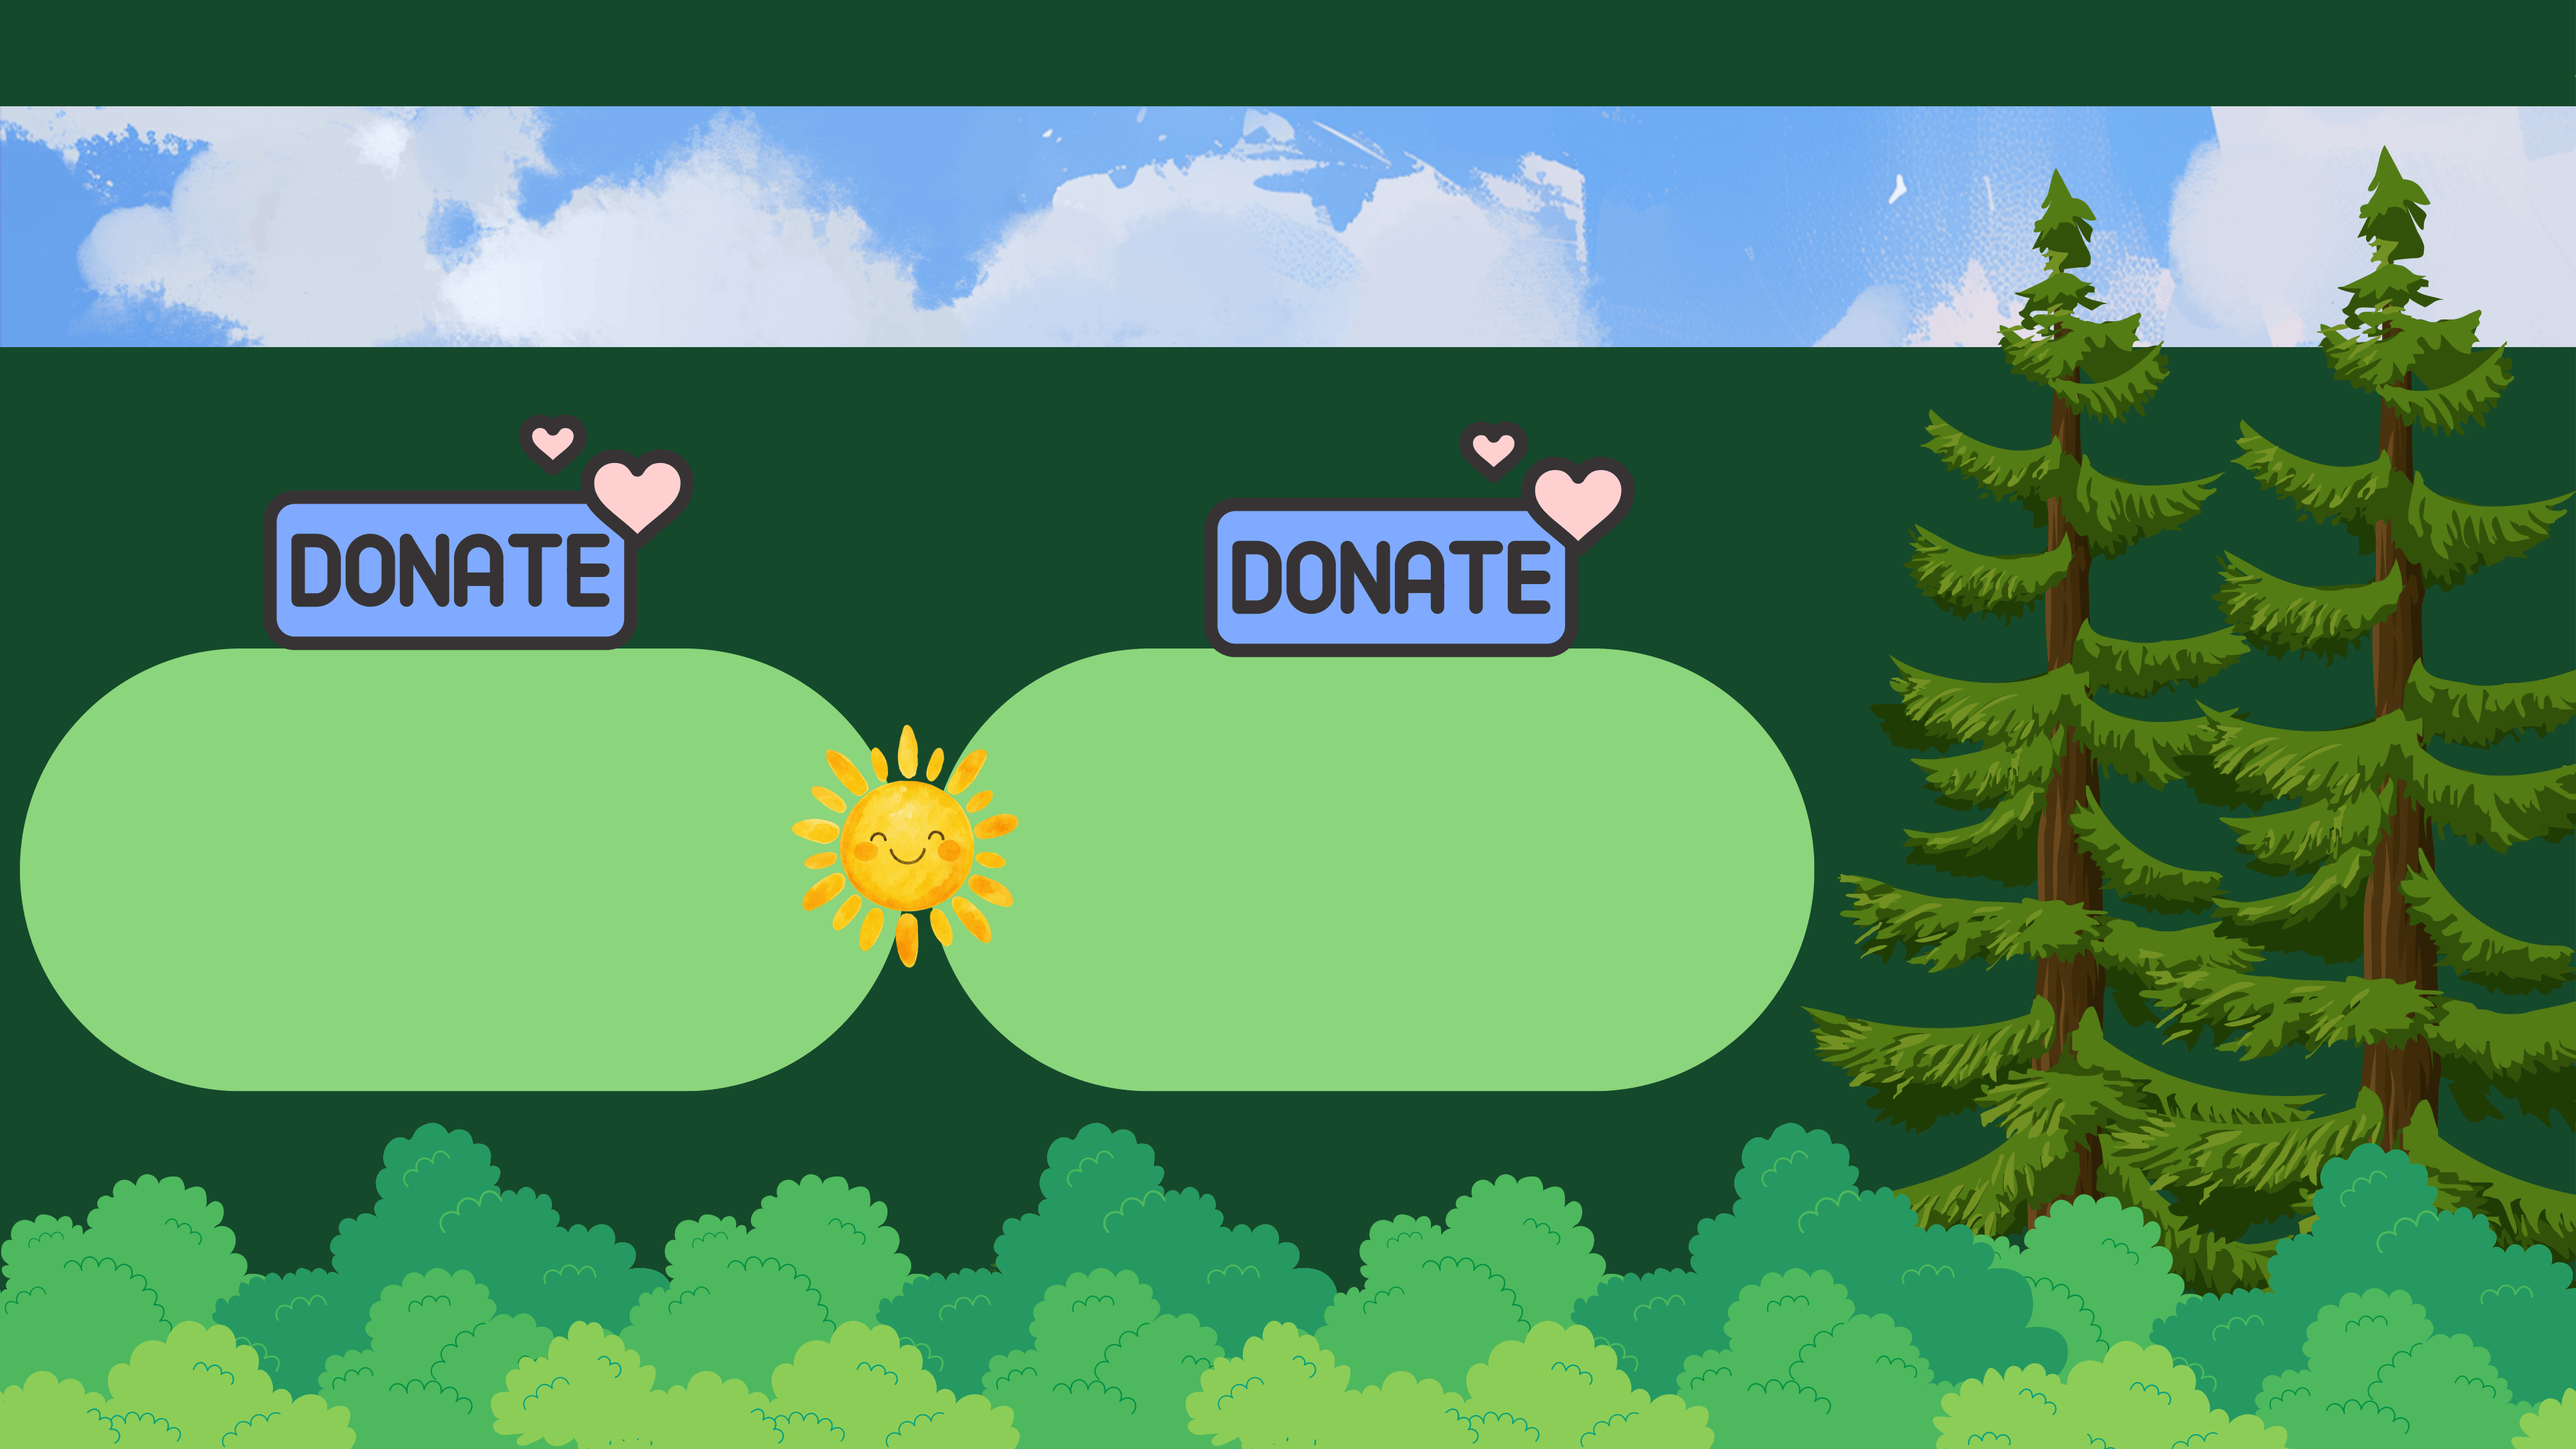
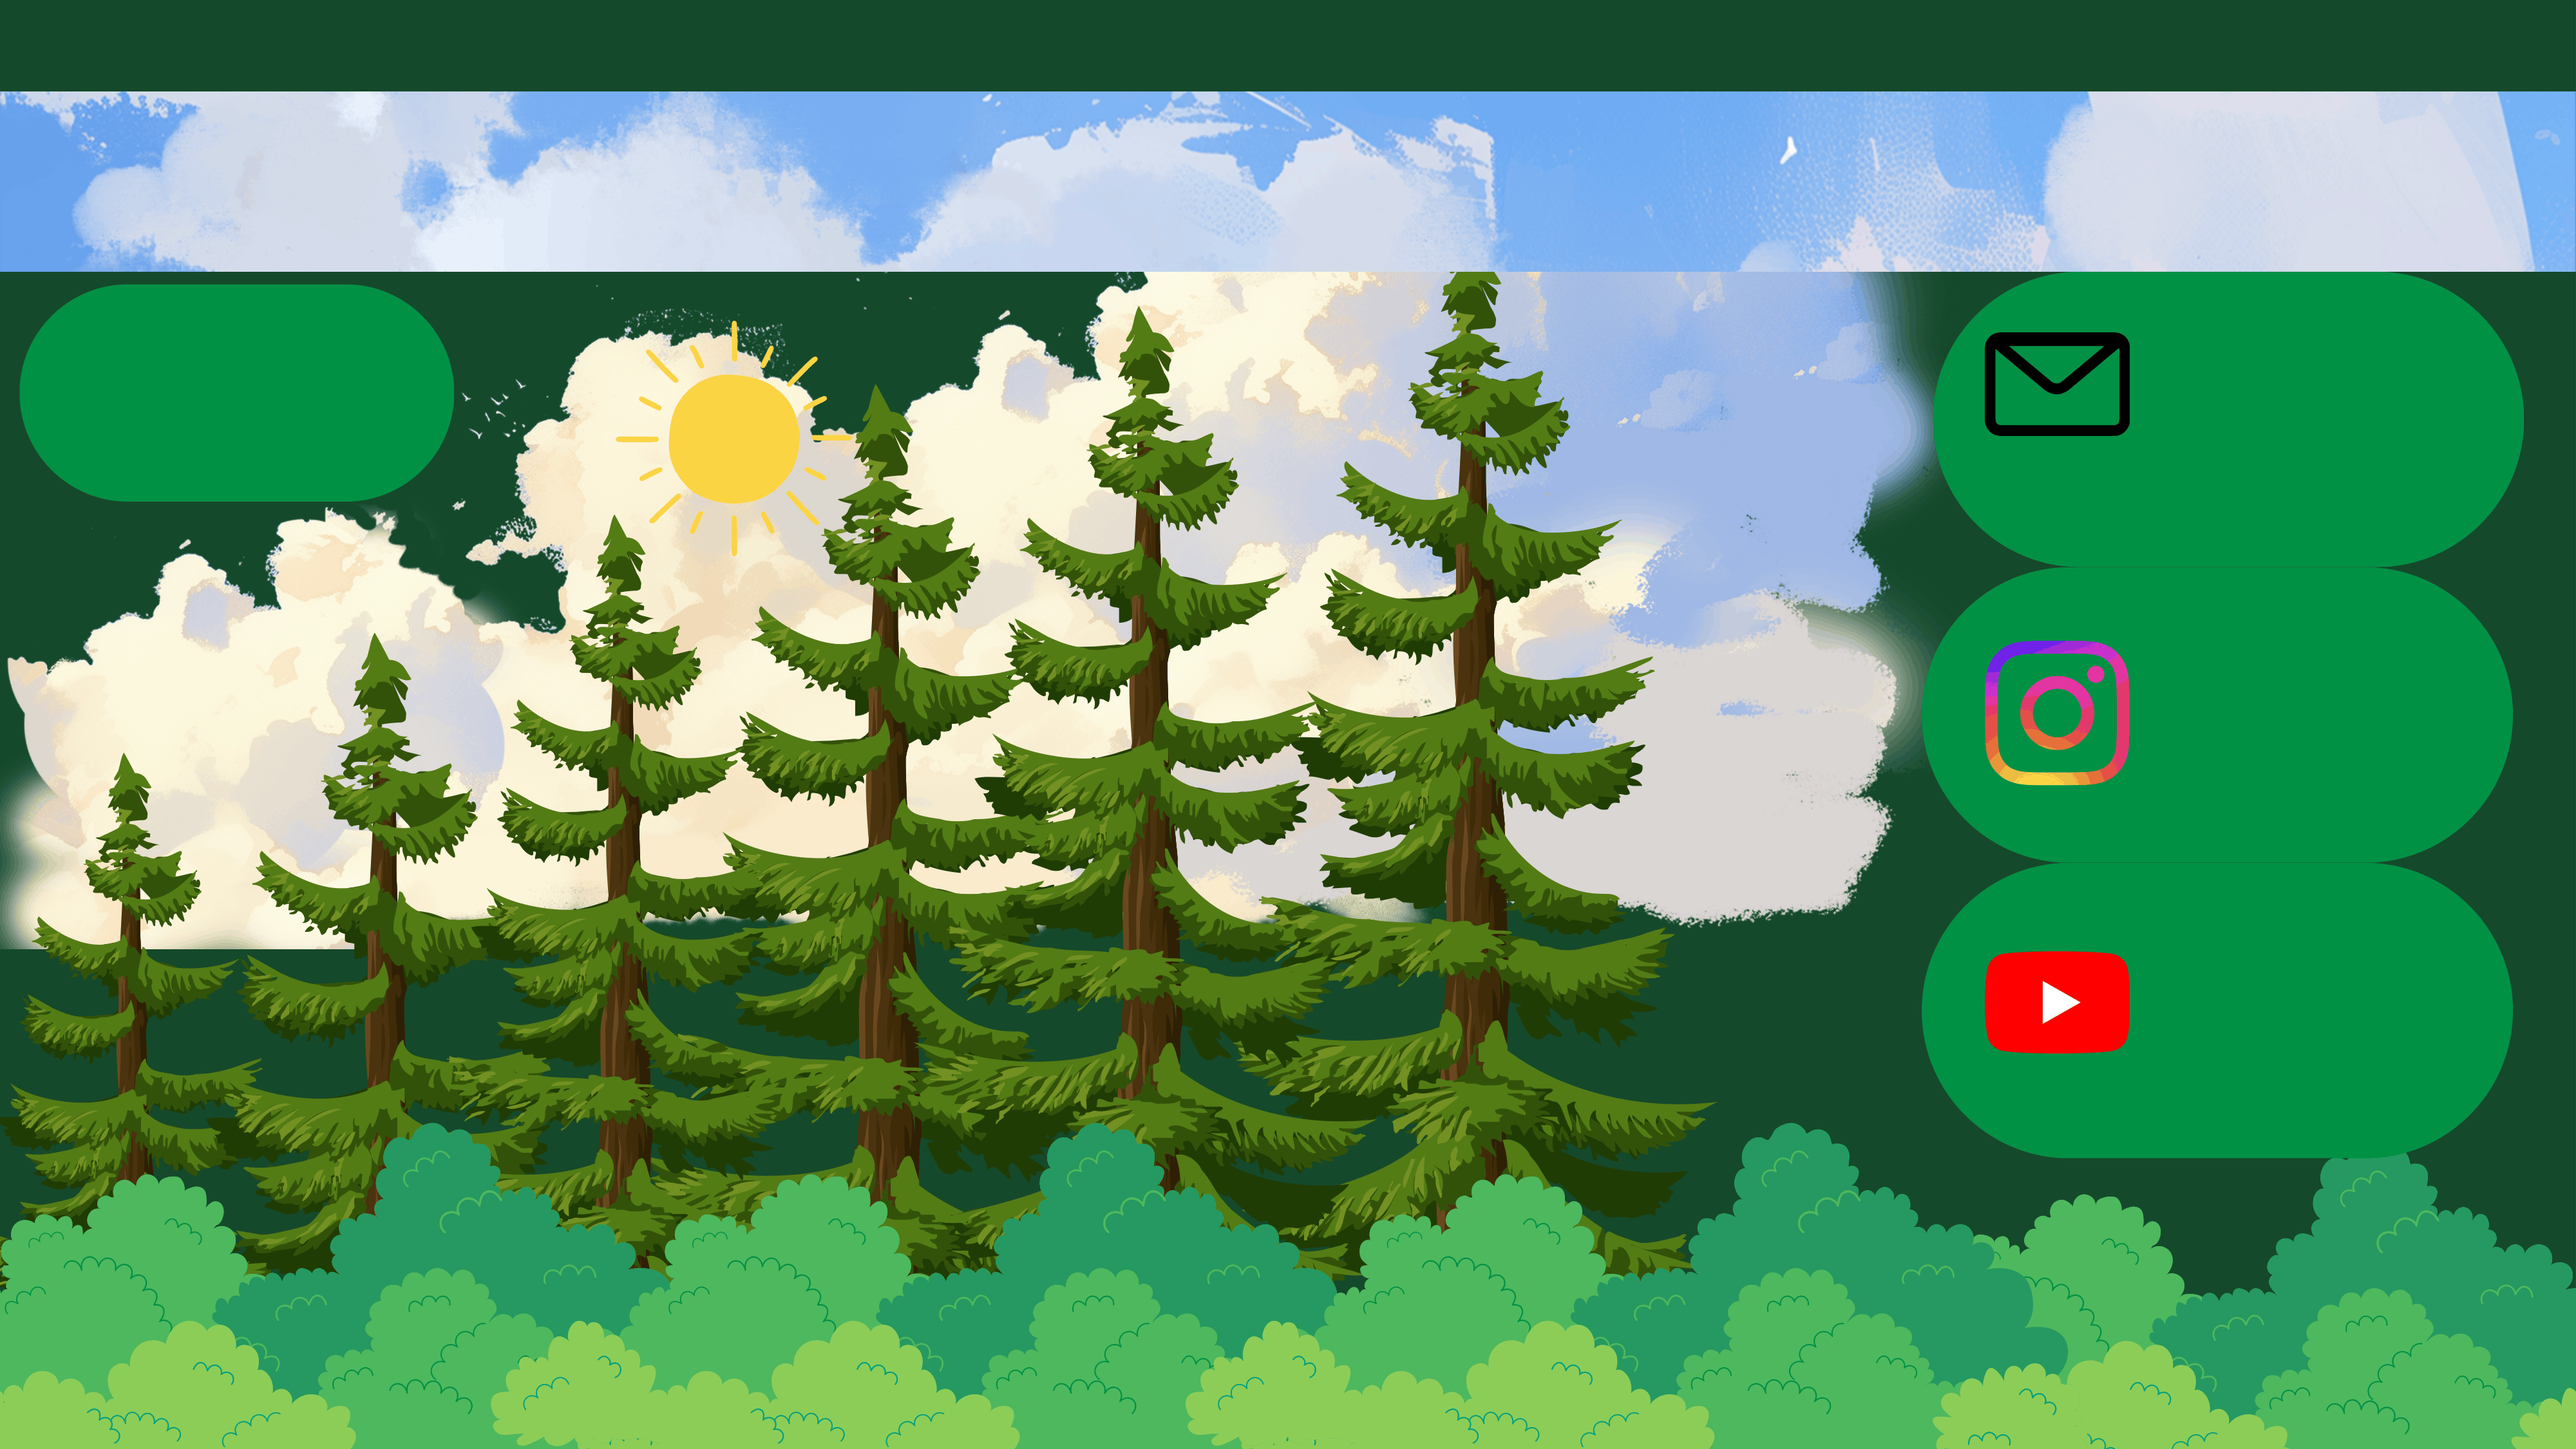
finished half of contact page

diff --git a/contact.css b/contact.css
@@ -1,0 +1,128 @@
+ul li a {
+   float: left;
+}
+
+ul li a {
+  display: block;
+  color: white;
+  text-align: center;
+  padding: 20px 20px;
+  text-decoration: none;
+}
+
+
+ul li a:hover:not(.active) {
+  background-color: #32CD32;
+}
+
+ul {
+  list-style-type: none;
+  margin: 0;
+  padding: 0;
+  background-color: #89CFF0;
+  display: flex;
+  justify-content: center;
+}
+
+ul li {
+  float: left;
+  border-right: 1px solid black;}
+
+ul li:last-child {
+  border-right: none;
+}
+ul li a:hover {
+  background-color: #50C878;
+}
+
+body {
+background-image: url("images/Contact.png");
+background-size: 100% 100%;
+background-repeat:no-repeat;
+background-attachment: fixed;
+}
+
+.Contact{
+  position: absolute;
+  top: 69%;
+  left: 89%;
+  transform: translate(-50%, -50%);
+  font-size:25px;
+}
+
+
+
+
+.Contact a:active {
+  color: red;
+  background-color: transparent;
+  text-decoration: underline;
+}
+
+
+
+
+.Contact1{
+  position: absolute;
+  top: 26%;
+  left: 90.4%;
+  transform: translate(-50%, -50%);
+  font-size:21px;
+}
+
+
+
+.contact1 a:active {
+  color: red;
+  background-color: transparent;
+  text-decoration: underline;
+}
+
+
+
+
+
+
+
+
+
+
+
+
+
+
+
+
+
+
+
+
+
+
+
+
+
+
+
+
+
+
+
+
+
+
+
+
+
+
+
+
+
+
+
+
+
+
+
+
+

diff --git a/contact.html b/contact.html
@@ -2,7 +2,7 @@
 <html lang="en">
 <head>
     <meta charset="UTF-8">
-    <link rel="stylesheet" href="information.css">
+    <link rel="stylesheet" href="contact.css">
    <meta name="viewport" content="width=device-width, initial-scale=1.0">
     <title>Information about deforestation in New Zealand</title>
 </head>
@@ -19,6 +19,21 @@
  <li><a href="index.html">Home Page</a></li>
     <li></li>
 </ul>
+
+
+
+
+
+
+<div class="Contact">
+<p><a href="https://www.youtube.com/@EnviroScience/">My youtube Channel</a></p>
+</div>
+
+
+
+
+<div class="Contact1">
+    <p>Email me at:(24002@students.mrgs.school.nz)<p>
 
 
 

diff --git a/donation.css b/donation.css
@@ -36,7 +36,7 @@ ul li a:hover {
 }
 
 body {
-background-image: url("images/Contact.png");
+background-image: url("images/donate.png");
 background-size: 100% 100%;
 background-repeat:no-repeat;
 background-attachment: fixed;
